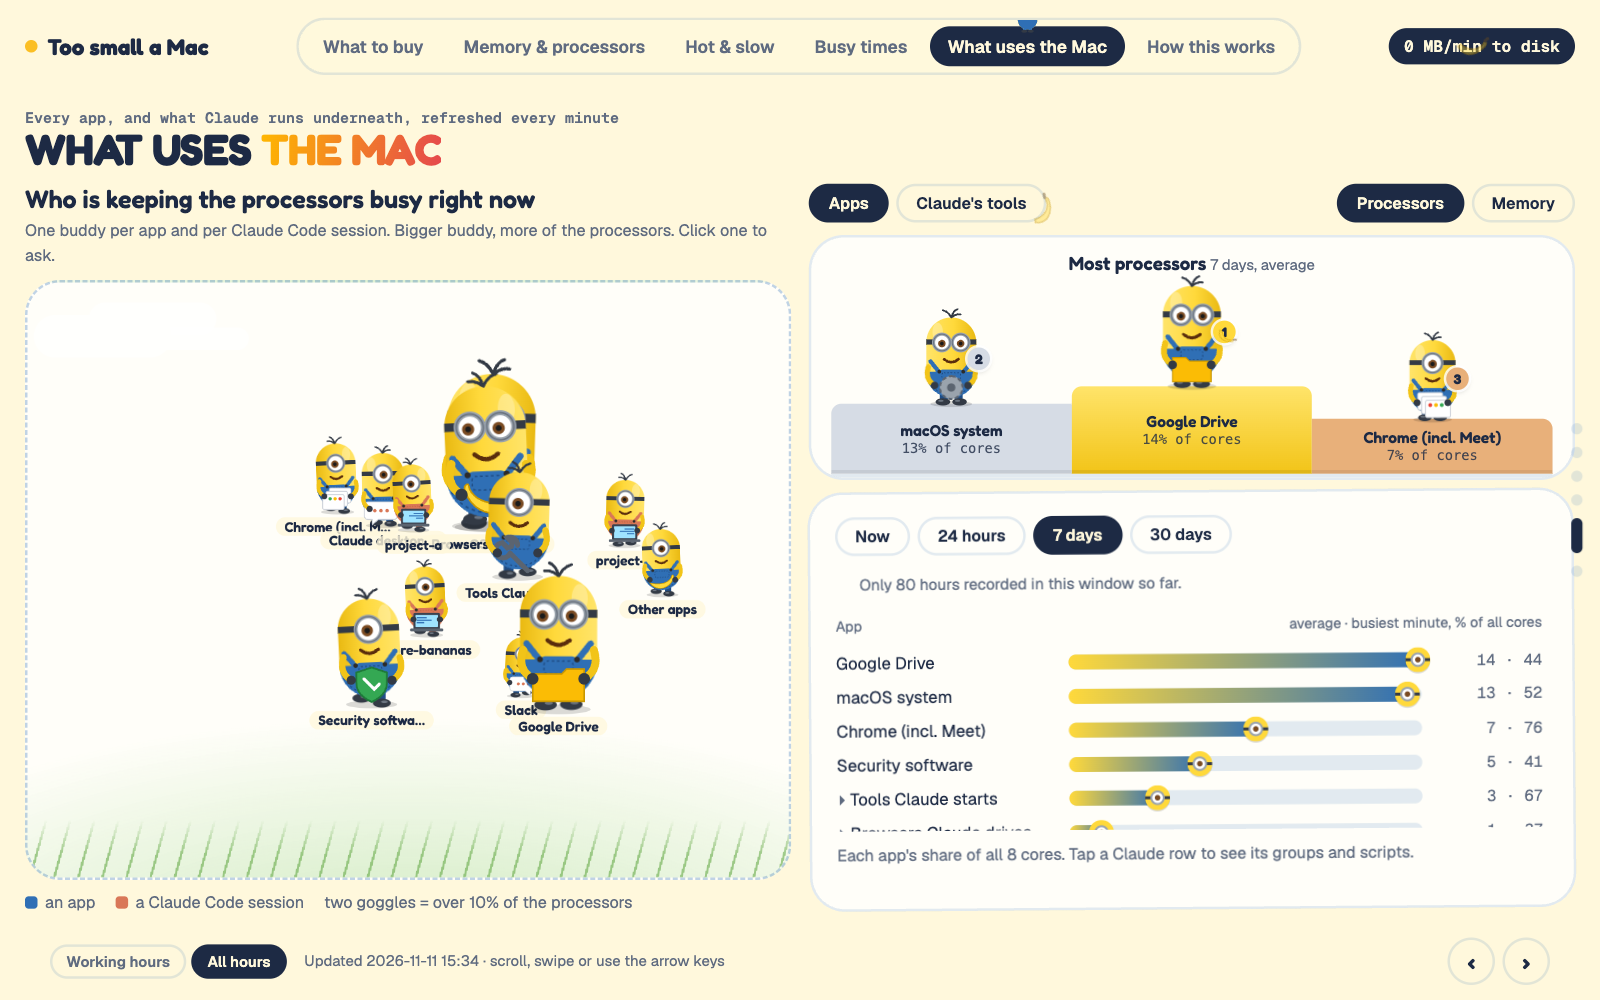
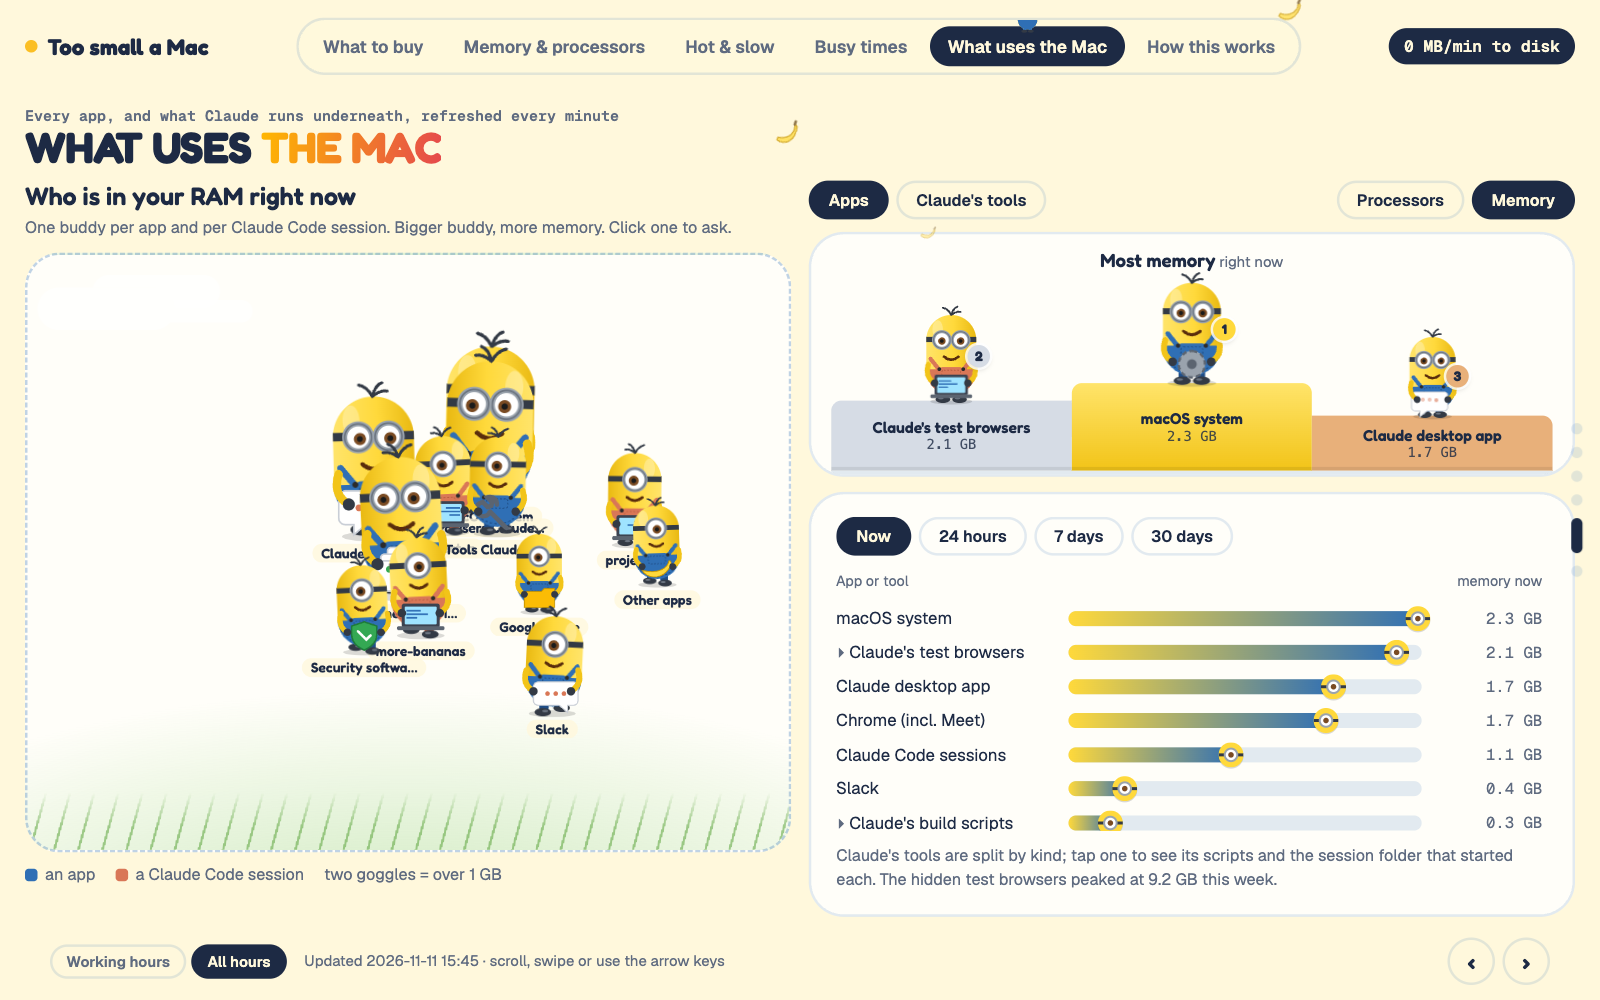
1.13.0: the app list shows each kind of Claude tool as its own row
The list on What uses the Mac no longer lumps Claude's tools into
"Tools Claude starts" and "Browsers Claude drives". Minute by minute, each
lumped row is split by the kinds' shares in Claude's own tool log (scripts
scaled by the same factor), so the rows still add up to what was measured;
each kind opens into its scripts and the session folder that started them.
The podium ranks the same split rows. Codex's tools get a plain name.
Repeated averages and script names are cached: a rebuild takes about 3.9 s
instead of 5.7 s on a week of readings, and the README's run time is
corrected from the stale 0.6 s.

diff --git a/skills/more-bananas/app/report.py b/skills/more-bananas/app/report.py
@@ -793,8 +793,14 @@ def render(v):
 
     # ---------- What uses memory: app groups over a time window, Claude's work opened up ----------
     a_last = max(apps_all) if apps_all else ""
+    avg_c = {}
     def use_avg(hours, src):
         """Each app group's average and busiest minute over the last `hours` (0 = the latest reading)."""
+        if (id(src), hours) in avg_c:     # the list and the podium ask for the same windows
+            return avg_c[(id(src), hours)]
+        avg_c[(id(src), hours)] = r_ = _use_avg(hours, src)
+        return r_
+    def _use_avg(hours, src):
         last = max(src) if src else ""
         if not last:
             return {}, {}, []
@@ -808,7 +814,48 @@ def render(v):
             for g, x in src[t].items():
                 tot[g] = tot.get(g, 0) + x; top_[g] = max(top_.get(g, 0), x)
         return {g: x / len(mins) for g, x in tot.items()}, top_, mins
-    def uses_view(hours, src, tsrc, cpu):
+    # Claude's tools as their own rows: the log of app groups lumps them into "Browsers Claude drives" and "Tools Claude
+    # starts". Minute by minute, each lumped row is split by the kinds' shares in Claude's own tool log (and its scripts
+    # scaled by the same factor), so the rows still add up to what the group measured. A minute with no tool log keeps
+    # the lumped amount under one Claude name. Codex's tools get a plain name.
+    POD_KIND = {KINDS[0][0]: "Claude's test browsers", KINDS[1][0]: "Claude's plug-ins", KINDS[2][0]: "Claude's page checks",
+                KINDS[3][0]: "Claude's cloud tools", KINDS[4][0]: "Claude's build scripts", KINDS[5][0]: "Claude's shell"}
+    KIND_OF = {v_: k_ for k_, v_ in POD_KIND.items()}
+    LUMPS = ((BR, {KINDS[0][0]}, "Claude's test browsers"), ("Tools Claude starts", {k_ for k_, _ in KINDS[1:]}, "Claude's other tools"))
+    RENAME = {"Tools started by Codex": "Codex's tools"}
+    kind_c, label_c = {}, {}
+    def label_of(jb):
+        if jb not in label_c:
+            label_c[jb] = label(jb)
+        return label_c[jb]
+    def kind_of(jb):
+        if jb not in kind_c:
+            kind_c[jb] = kind(jb)
+        return kind_c[jb]
+    def split_tools(src, tsrc):
+        out, scale = {}, {}
+        for t, d_ in src.items():
+            row = {RENAME.get(g, g): x for g, x in d_.items() if g not in (BR, "Tools Claude starts")}
+            tt = tsrc.get(t, {})
+            for g, names, fallback in LUMPS:
+                if g not in d_:
+                    continue
+                parts = {}
+                for (se, jb), x in tt.items():
+                    k_ = kind_of(jb)
+                    if k_ in names:
+                        parts[k_] = parts.get(k_, 0) + x
+                tot = sum(parts.values())
+                if tot <= 0:
+                    row[fallback] = row.get(fallback, 0) + d_[g]
+                    continue
+                f_ = d_[g] / tot
+                scale.setdefault(t, {})[g] = f_
+                for k_, x in parts.items():
+                    row[POD_KIND[k_]] = row.get(POD_KIND[k_], 0) + x * f_
+            out[t] = row
+        return out, scale
+    def uses_view(hours, src, tsrc, scale, cpu):
         fmt = (lambda x: f"{x:.0f}%") if cpu else (lambda x: f"{x:.1f} GB")
         avg, top_, mins = use_avg(hours, src)
         if not mins:
@@ -823,64 +870,46 @@ def render(v):
             val = fmt(x) if hours == 0 else (f"{x:.0f} &middot; {top_[g]:.0f}" if cpu else f"{x:.1f} &middot; {top_[g]:.1f}")
             row = f'<div class="row ur" style="--i:{j}" title="{e(g)}"><span>{e(g)}</span><div class=track><b style="--w:{x/sc*100:.0f}%"></b></div><em>{val}</em></div>'
             sub = ""
-            if g in ("Tools Claude starts", BR) and tmins:
-                ks = {}
+            if g in KIND_OF and tmins:   # a kind of Claude tool: its busiest scripts, with the session folder that started each
+                k0 = KIND_OF[g]; grp = BR if k0 == KINDS[0][0] else "Tools Claude starts"
+                jobs_ = {}
                 for t in tmins:
+                    f_ = scale.get(t, {}).get(grp)
+                    if f_ is None:
+                        continue
                     for (se, jb), g_ in tsrc[t].items():
-                        k_ = kind(jb)
-                        if (k_ == KINDS[0][0]) != (g == BR):
-                            continue
-                        ks.setdefault(k_, {}); ks[k_][(se, label(jb))] = ks[k_].get((se, label(jb)), 0) + g_ / len(tmins)
-                for k_, jobs_ in sorted(ks.items(), key=lambda kv: -sum(kv[1].values())):
-                    topj = sorted(jobs_.items(), key=lambda kv: -kv[1])[:5]
-                    sub += (f'<p class=kd><b>{e(k_)}</b> &middot; {fmt(sum(jobs_.values()))}{"" if hours == 0 else " on average"}. {e(desc[k_])}</p><ul class=jl>'
-                            + "".join(f'<li><span><b>{e(jb_)}</b> <i>{e(se)}</i></span><em>{fmt(g_)}</em></li>' for (se, jb_), g_ in topj) + "</ul>")
+                        if kind_of(jb) == k0:
+                            k_ = (se, label_of(jb)); jobs_[k_] = jobs_.get(k_, 0) + g_ * f_ / len(mins)
+                topj = [(k_, v_) for k_, v_ in sorted(jobs_.items(), key=lambda kv: -kv[1])[:5] if v_ >= (.05 if cpu else .005)]
+                if topj:
+                    sub = (f'<p class=kd>{e(desc[k0])}</p><ul class=jl>'
+                           + "".join(f'<li><span><b>{e(jb_)}</b> <i>{e(se)}</i></span><em>{fmt(g_)}</em></li>' for (se, jb_), g_ in topj) + "</ul>")
             out += f'<details class=kind><summary>{row}</summary>{sub}</details>' if sub else row
         return out, len(mins)
     def uses_block(src, tsrc, cpu):
+        ssrc, scale = split_tools(src, tsrc)
         uviews = []
         for vid, vname, hours in (("now", "Now", 0), ("d1", "24 hours", 24), ("d7", "7 days", 168), ("d30", "30 days", 720)):
-            body, nmin = uses_view(hours, src, tsrc, cpu)
+            body, nmin = uses_view(hours, ssrc, tsrc, scale, cpu)
             short_ = "" if hours == 0 or nmin >= hours * 60 * .9 else f'<p class=kd>Only {nmin / 60:.0f} hours recorded in this window so far.</p>'
-            head_ = '<p class=uh><span>App</span><span>' + (("share of all cores now" if cpu else "memory now") if hours == 0 else
+            head_ = '<p class=uh><span>App or tool</span><span>' + (("share of all cores now" if cpu else "memory now") if hours == 0 else
                                                            ("average &middot; busiest minute, % of all cores" if cpu else "average &middot; busiest minute, GB")) + '</span></p>'
             uviews.append((vid, vname, short_ + head_ + body))
         tabs_ = "".join(f'<button type=button class=jt data-v={vid} aria-pressed={"true" if j == 0 else "false"}>{vn}</button>' for j, (vid, vn, _) in enumerate(uviews))
         views_ = "".join(f'<div class=jv data-v={vid}{"" if j == 0 else " hidden"}><div class=list>{b_}</div></div>' for j, (vid, _, b_) in enumerate(uviews))
-        return tabs_, views_
-    uses_tabs, uses_views = uses_block(apps_all, tj, False)
-    cuses_tabs, cuses_views = uses_block(capps, tjc, True)
+        return tabs_, views_, ssrc
+    uses_tabs, uses_views, apps_split = uses_block(apps_all, tj, False)
+    cuses_tabs, cuses_views, capps_split = uses_block(capps, tjc, True)
     # The processors view comes first wherever the processors held the Mac up more.
     m_first = "cpu" if cpu_first and capps else "mem"
-    # The podium: the three app groups with the highest average, per time window, ranked exactly as the list beside it
-    # (same rows, same cut-offs), leaving out the catch-all "Other apps" and the old Chrome + test browsers mix.
-    # Apps and the coding agents' tools compete on one podium: the two lumped Claude rows ("Tools Claude starts",
-    # "Browsers Claude drives") are replaced by each kind of tool on its own. Each lumped row keeps the list's total and
-    # is split by the kinds' shares in Claude's own tool log, so the podium and the list never disagree.
-    POD_KIND = {KINDS[0][0]: "Claude's test browsers", KINDS[1][0]: "Claude's plug-ins", KINDS[2][0]: "Claude's page checks",
-                KINDS[3][0]: "Claude's cloud tools", KINDS[4][0]: "Claude's build scripts", KINDS[5][0]: "Claude's shell"}
-    POD_NAME = {"Tools started by Codex": "Codex's tools"}
-    def podium_top(hours, src, tsrc, cpu):
-        avg, _, mins = use_avg(hours, src)
-        ent = {POD_NAME.get(g, g): x for g, x in avg.items() if g not in ("Other apps", "Tools Claude starts", BR) and "not split" not in g}
-        tmins = [t for t in mins if t in tsrc]
-        share = {}
-        for t in tmins:
-            for (se, jb), x in tsrc[t].items():
-                k_ = kind(jb); share[k_] = share.get(k_, 0) + x
-        for g, kinds_, fallback in ((BR, KINDS[:1], "Claude's test browsers"), ("Tools Claude starts", KINDS[1:], "Claude's other tools")):
-            tot_ = sum(share.get(k_, 0) for k_, _ in kinds_)
-            if g not in avg:
-                continue
-            if tot_ <= 0:
-                ent[fallback] = ent.get(fallback, 0) + avg[g]
-                continue
-            for k_, _ in kinds_:
-                if share.get(k_):
-                    ent[POD_KIND[k_]] = ent.get(POD_KIND[k_], 0) + avg[g] * share[k_] / tot_
-        keep = [(g, x) for g, x in sorted(ent.items(), key=lambda kv: -kv[1]) if x >= (.5 if cpu else .05)]
+    # The podium: the top three rows of the list beside it (same split rows, same window, same cut-offs), leaving out
+    # the catch-all "Other apps" and the old Chrome + test browsers mix.
+    def podium_top(hours, src, cpu):
+        avg = use_avg(hours, src)[0]
+        keep = [(g, x) for g, x in sorted(avg.items(), key=lambda kv: -kv[1])
+                if x >= (.5 if cpu else .05) and g != "Other apps" and "not split" not in g]
         return [[g, round(x, 0 if cpu else 1)] for g, x in keep[:3]]
-    podium_json = json.dumps({"first": m_first, "wins": {vid: {"mem": podium_top(h_, apps_all, tj, False), "cpu": podium_top(h_, capps, tjc, True) if capps else []}
+    podium_json = json.dumps({"first": m_first, "wins": {vid: {"mem": podium_top(h_, apps_split, False), "cpu": podium_top(h_, capps_split, True) if capps else []}
                                                          for vid, h_ in (("now", 0), ("d1", 24), ("d7", 168), ("d30", 720))}}).replace("</", "<\\/")
     m_first_c = "cpu" if m_first == "cpu" and len(tjc) >= 60 else "mem"
     v["yard_measure"] = m_first          # buddy.py sizes the yard's buddies by the same measure (memlog.py reads it back)
@@ -1212,9 +1241,9 @@ details.storagebox{{font-size:13px}} details.storagebox>.c{{border:0;padding:8px
 <div class="c podcard" id=podium-host aria-label="The three apps or coding-agent tools using the most of the processors or memory"></div>
 <div class=vv data-vv=apps>
 {f"""<div class="c jobs mbox" data-m=cpu{"" if m_first == "cpu" else " hidden"}><div class=jtabs role=group aria-label="Time window">{cuses_tabs}</div>{cuses_views}
-<p class=note style="margin-top:10px">Each app&#x27;s share of all {cores_n} cores. Tap a Claude row to see its groups and scripts.</p></div>""" if capps else ""}
+<p class=note style="margin-top:10px">Each app&#x27;s or tool&#x27;s share of all {cores_n} cores. Claude&#x27;s tools are split by kind; tap one to see its scripts.</p></div>""" if capps else ""}
 <div class="c jobs mbox" data-m=mem{"" if m_first == "mem" else " hidden"}><div class=jtabs role=group aria-label="Time window">{uses_tabs}</div>{uses_views}
-<p class=note style="margin-top:10px">Tap a Claude row to see its groups and the scripts in each, with the session folder that started them.{f" The hidden test browsers peaked at {br_peak:.1f} GB this week." if br_peak >= 1 else ""}</p></div>
+<p class=note style="margin-top:10px">Claude&#x27;s tools are split by kind; tap one to see its scripts and the session folder that started each.{f" The hidden test browsers peaked at {br_peak:.1f} GB this week." if br_peak >= 1 else ""}</p></div>
 </div><div class=vv data-vv=claude hidden>
 {f"""<div class="c jobs mbox" data-m=cpu{"" if m_first == "cpu" else " hidden"}><div class=jtabs role=group aria-label="Time window">{cjobs_tabs}</div>{cjobs_views}
 <p class=note style="margin-top:10px">Share of all {cores_n} cores. Tap a group to see its scripts and the Claude session folder that started each one. Tracked since {e(min(tjc) if tjc else "the next reading")}.</p></div>""" if capps else ""}

diff --git a/tests/test_podium.py b/tests/test_podium.py
@@ -14,8 +14,8 @@ sys.path.insert(0, str(APP))
 import report
 
 
-def podium_for(apps, cpu_apps=None, tools=None):
-    """Render the page from per-app memory (and optionally processor) readings, and return its podium data."""
+def page_for(apps, cpu_apps=None, tools=None):
+    """Render the page from per-app memory (and optionally processor and Claude tool) readings."""
     with tempfile.TemporaryDirectory() as directory:
         root = Path(directory)
         (root / 'icon').mkdir()
@@ -34,7 +34,12 @@ def podium_for(apps, cpu_apps=None, tools=None):
         values.update(HOME=directory, stamp=times[-1], TOTAL_GB=24, out_mb=0, cfg={}, terms=1,
                       mood='calm', tone='#34d399', fav='', by_group={}, now_d={}, cores=10,
                       load1=4, swapped_total_gb=0, comp_gb=2, wired_gb=3, squeezed_gb=4, hours='all')
-        page = report.render(values)
+        return report.render(values)
+
+
+def podium_for(apps, cpu_apps=None, tools=None):
+    """The page's podium data."""
+    page = page_for(apps, cpu_apps, tools)
     assert 'id=podium-host' in page, 'the podium card is missing from the page'
     found = re.search(r'<script type=application/json id=podium-data>(.*?)</script>', page)
     return json.loads(found.group(1))
@@ -72,6 +77,17 @@ class PodiumTests(unittest.TestCase):
     def test_without_a_tool_log_the_lumped_rows_still_place_under_claudes_name(self):
         pod = podium_for({'Browsers Claude drives': 2.9, 'Tools Claude starts': 1.0, 'macOS system': 0.4})
         self.assertEqual([g for g, _ in pod['wins']['now']['mem']], ["Claude's test browsers", "Claude's other tools", 'macOS system'])
+
+
+    def test_the_list_shows_claudes_tools_by_kind_not_lumped(self):
+        page = page_for({'Browsers Claude drives': 2.9, 'Tools Claude starts': 1.0, 'macOS system': 2.4},
+                        tools={'Chrome opened by check_dashboard.py': 2.0, 'build_page.py': 0.4, 'check_dashboard.py': 0.1})
+        rows = re.findall(r'<div class="row ur"[^>]*><span>([^<]+)</span>', page)
+        self.assertIn('Claude&#x27;s test browsers', rows)
+        self.assertIn('Claude&#x27;s build scripts', rows)
+        self.assertNotIn('Browsers Claude drives', rows)
+        self.assertNotIn('Tools Claude starts', rows)
+        self.assertIn('build_page.py', page)        # each kind opens into its scripts
 
 
 if __name__ == '__main__':

diff --git a/README.md b/README.md
@@ -37,9 +37,9 @@ This measures instead. It reads macOS's own memory figures once a minute, keeps 
 | 📈 | **Memory & processors, minute by minute** | One chart: memory needed against your RAM line with the overflow onto disk, and work waiting for the processors drawn so the same dotted line means full for both. Beside it, what held the memory at the busiest minute. Hover any minute, or switch between today and the last 3, 7 or 30 days (Hot & slow has the same switch). |
 | 🔥 | **Hot & slow** | Chip temperature, fan speed, processors, graphics, disk traffic and memory pushed to disk, minute by minute, each with a "too much" line (90 °C, fan at 60%, more work than cores…). Plus which apps kept the processors busy while it ran hot. No admin rights needed. |
 | 📅 | **Busy times, by day and by hour** | One timeline since the history start: Claude Code sessions open at once above the line, below it the minutes something held the Mac up each day, coloured by what, then memory over your RAM. A switch shows a weekday × hour heatmap instead, opening on what held each hour up. |
-| 🧸 | **Who is using it** | A podium for the top three by processors or by memory (it follows the switch), over the same window as the list below it (now, 24 hours, 7 days or 30 days). Apps and Claude's or Codex's tools compete together, each kind of tool on its own. Beside it, one walking banana buddy per app and per Claude Code session, sized by processor share or memory (whichever held the Mac up more, and it follows the switch). Every app's processor share and memory now / 24 h / 7 days / 30 days, opening on whichever held the Mac up more. |
+| 🧸 | **Who is using it** | A podium for the top three by processors or by memory (it follows the switch), over the same window as the list below it (now, 24 hours, 7 days or 30 days). Apps and Claude's or Codex's tools compete together, in the podium and the list: each kind of tool (test browsers, build scripts, page checks...) is its own row and opens into its scripts. Beside it, one walking banana buddy per app and per Claude Code session, sized by processor share or memory (whichever held the Mac up more, and it follows the switch). Every app's processor share and memory now / 24 h / 7 days / 30 days, opening on whichever held the Mac up more. |
 | 🤖 | **What uses the Mac: Claude's tools** | Claude's tools grouped into plain kinds (test browsers, page checks, cloud tools, plug-ins, build scripts, shell), each opening into its scripts and the session folder that started them, by processor share or by memory. |
-| 🪶 | **Light** | One run takes about 0.6 s a minute and stores about 2 MB of readings a day. Nothing is sent anywhere. |
+| 🪶 | **Light** | One run takes about 4 s a minute (measured on a week of readings) and stores about 2 MB of readings a day. Nothing is sent anywhere. |
 | 🛟 | **Survives a dead laptop** | Optional copy of readings and page to Google Drive every 15 minutes. |
 
 ## See it in action

diff --git a/skills/more-bananas/SKILL.md b/skills/more-bananas/SKILL.md
@@ -44,9 +44,9 @@ Nothing is sent anywhere. Everything lives in `~/memlog/` (readings as CSV, the 
    hour heatmap, opening on what held each hour up (switch to memory needed).
 5. **What uses the Mac**: a podium above the list for the top three by processors or by memory (it follows the
    switch), over the same window as the list (now, 24 hours, 7 days or 30 days, averaged; one window for every list
-   on the tab). Apps and the coding agents' tools compete together: each kind of Claude tool (test browsers, build
-   scripts, page checks...) and Codex's tools place on their own, split from the list's totals; "Other apps" never
-   places. Beside it a walking buddy per app and per Claude session (sized by processor share or memory,
+   on the tab). Apps and the coding agents' tools compete together, in the podium and the list: each kind of Claude tool
+   (test browsers, build scripts, page checks...) is its own row, split minute by minute from the lumped app group by
+   Claude's tool log, and opens into its scripts; Codex's tools have their own row; "Other apps" never places. Beside it a walking buddy per app and per Claude session (sized by processor share or memory,
    following the same switch), plus every app group's processor share and memory
    now / 24 h / 7 days / 30 days (average and busiest minute); Claude's tools and test browsers expand into
    groups and scripts. An Apps / Claude's tools switch shows Claude's tools and hidden test browsers by kind
